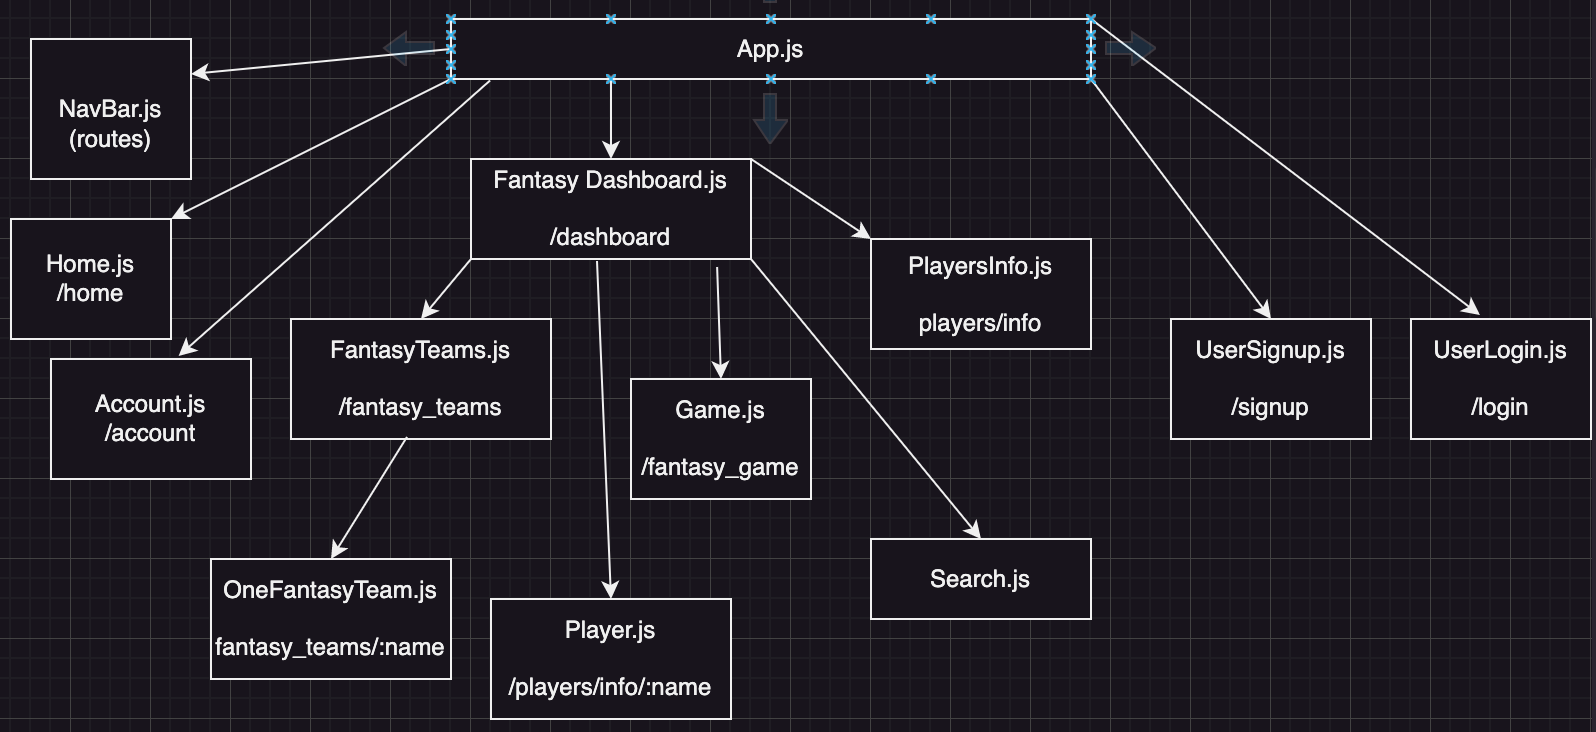
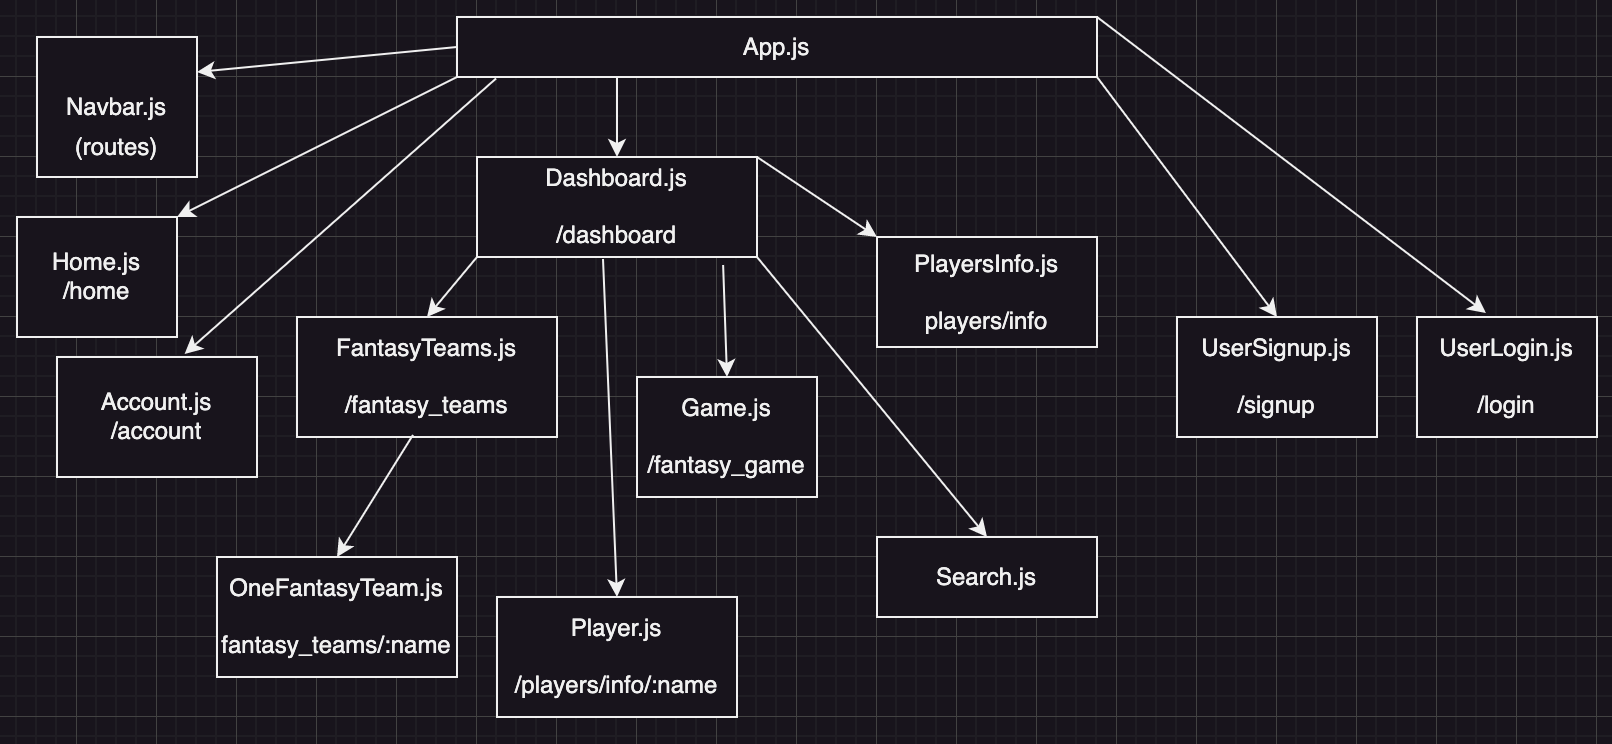
small changes

diff --git a/README.md b/README.md
@@ -27,7 +27,7 @@ A Users can:
 
 ## React Tree
 
-## <img src="imgs/ReactTree.png">
+## <img src="imgs/ReactTree.png" width=800>
 
 ## Client Side Routes
 
